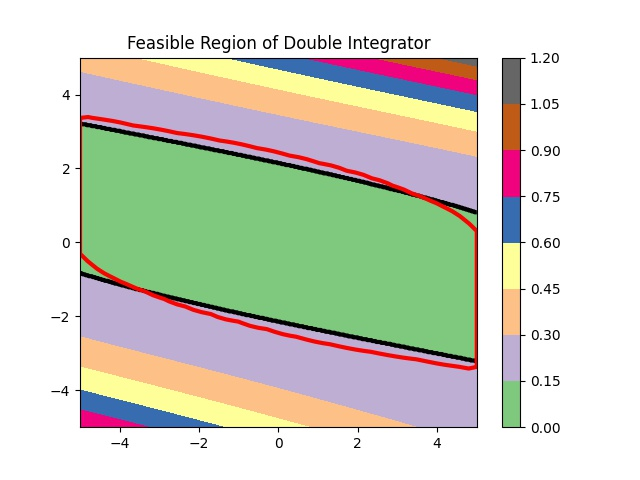
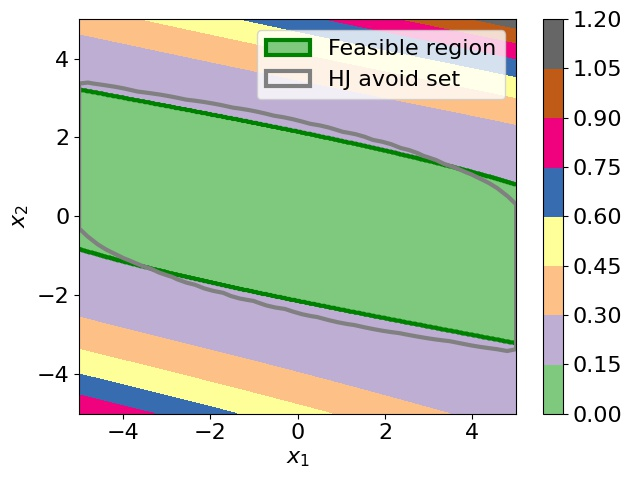
update figures

diff --git a/visualize_region_3d.py b/visualize_region_3d.py
@@ -1,3 +1,5 @@
+import matplotlib.pyplot as plt
+
 from policy import Policy4Lagrange
 import os
 from evaluator import Evaluator
@@ -6,6 +8,7 @@ from utils.em_brake_4test import EmergencyBraking
 import numpy as np
 from matplotlib.colors import ListedColormap
 from dynamics.models import EmBrakeModel, UpperTriangleModel, Air3dModel
+plt.rcParams.update({'font.size': 14})
 
 def hj_baseline():
     import jax
@@ -107,19 +110,18 @@ def static_region(test_dir, iteration,
     if baseline:
         grid, target_values = hj_baseline()
 
-    def plot_region(data_reshape, name, k):
+    def plot_region(data_reshape, name, k, fig):
         ax = plt.subplot(1, 3, k+1)
         data_reshape = data_reshape / np.max(data_reshape)
         data_reshape += 0.15 * np.where(data_reshape==0,
                                         np.zeros_like(data_reshape),
                                         np.ones_like(data_reshape))
         ctf = ax.contourf(Dc, Vc, data_reshape, cmap='Accent')  # 50
-        plt.colorbar(ctf)
-        plt.axis('equal')
+        # plt.axis('equal')
         ct1 = ax.contour(Dc, Vc, data_reshape, levels=0,
-                   colors="black",
+                   colors="green",
                    linewidths=3)
-        ct1.collections[0].set_label('Learned Boundary')
+        # ct1.collections[0].set_label('Learned')
         x = np.linspace(0, np.pi * 2, 100)
         ax.plot(5 * np.sin(x), 5 * np.cos(x), linewidth=2, linestyle='--', label='Safe dist', color='red')
         if baseline:
@@ -127,22 +129,49 @@ def static_region(test_dir, iteration,
                        grid.coordinate_vectors[1],
                        target_values[:, :, int(10 * (k + 2))].T,
                        levels=0,
-                       colors="red",
-                       linewidths=3)
-            ct2.collections[0].set_label('HJ-Reachability Boundary')
-        plt.legend(loc='best')
+                       colors="grey",
+                       linewidths=3,
+                       linestyle='--')
+            # ct2.collections[0].set_label('HJ avoid set')
+        ax.set_title(r'$x_3={:.0f}\degree$'.format(30 * (k + 2)))  # Feasibility Indicator $F(s)$,
+        # ax.set_xlabel(r'$x_1$')
+        # ax.set_ylabel(r'$x_2$')
         name_2d = name + '_' + str(iteration) + '_2d_' + str(k) + '.jpg'
-        plt.title(r'$x_3={:.0f}\degree$'.format(30 * (k+2))) #Feasibility Indicator $F(s)$,
-        plt.savefig(os.path.join(evaluator.log_dir, name_2d))
+        if k == 2:
+            rect1 = plt.Rectangle((0,0), 1, 1, fc=ctf.collections[0].get_facecolor()[0], ec='green', linewidth=3)
+            rect2 = plt.Rectangle((0, 0), 1, 1, fill=False, ec='grey', linewidth=3)
+            plt.colorbar(ctf)
+            h, l = ax.get_legend_handles_labels()
+            h = h + [rect1,rect2]
+            l = l + ['Feasible region', 'HJ avoid set']
+            fig.legend(h, l, loc='upper right')
+            # plt.tight_layout(pad=0.5)
+            plt.savefig(os.path.join(evaluator.log_dir, name_2d))
+            # legfig, legax = plt.subplots(figsize=(7,0.75))
+            # legax.set_facecolor('white')
+            # leg = legax.legend(h, l, loc='center', ncol=3, handlelength=1.5,
+            #            mode="expand", borderaxespad=0., prop={'size': 13})
+            # legax.xaxis.set_visible(False)
+            # legax.yaxis.set_visible(False)
+            # for line in leg.get_lines():
+            #     line.set_linewidth(4.0)
+            # plt.tight_layout(pad=0.5)
+            # plt.savefig(os.path.join(evaluator.log_dir, 'legend.pdf'), format='pdf')
+            # plt.subplots(figsize=(2, 8))
+            #
+            # plt.savefig(os.path.join(evaluator.log_dir, 'color_bar.pdf'), format='pdf')
 
-    plt.figure(figsize=(12, 3))
+
+
+
+    fig = plt.figure(figsize=(12, 3))
     for plot_item in plot_items:
         data = data_dict.get(plot_item)
         if sum:
             data_k = np.sum(data, axis=1)
             data_reshape = data_k.reshape(D.shape)
             for k in range(data_reshape.shape[-1]):
-                plot_region(data_reshape[..., k], plot_item + '_sum', k)
+                plot_region(data_reshape[..., k], plot_item + '_sum', k, fig)
 
 
 

diff --git a/visualize_region.py b/visualize_region.py
@@ -7,6 +7,7 @@ import numpy as np
 from matplotlib.colors import ListedColormap
 from dynamics.models import EmBrakeModel, UpperTriangleModel, Air3dModel
 
+
 def hj_baseline():
     import jax
     import jax.numpy as jnp
@@ -96,6 +97,7 @@ def static_region(test_dir, iteration,
     flatten_cs = flatten_cs / np.max(flatten_cs)
 
     import matplotlib.pyplot as plt
+    plt.rcParams.update({'font.size': 16})
     from mpl_toolkits.mplot3d import Axes3D
 
     plot_items = ['cs']
@@ -112,18 +114,24 @@ def static_region(test_dir, iteration,
         plt.colorbar(ct1)
         ct1.collections[0].set_label('Learned Boundary')
         ax.contour(D, V, data_reshape, levels=0,
-                   colors="black",
+                   colors="green",
                    linewidths=3)
         if baseline:
             ct2 = ax.contour(grid.coordinate_vectors[0],
                        grid.coordinate_vectors[1],
                        target_values.T,
                        levels=0,
-                       colors="red",
+                       colors="grey",
                        linewidths=3)
-            ct2.collections[0].set_label('HJ-Reachability Boundary')
+            # ct2.collections[0].set_label('HJ-Reachability Boundary')
         name_2d = name + '_' + str(iteration) + '_2d.jpg'
-        plt.title('Feasible Region of Double Integrator')
+        ax.set_xlabel(r'$x_1$')
+        ax.set_ylabel(r'$x_2$')
+        rect1 = plt.Rectangle((0, 0), 1, 1, fc=ct1.collections[0].get_facecolor()[0], ec='green', linewidth=3)
+        rect2 = plt.Rectangle((0, 0), 1, 1, fill=False, ec='grey', linewidth=3)
+        plt.legend((rect1,rect2), ('Feasible region', 'HJ avoid set'), loc='best')
+        # plt.title('Feasible Region of Double Integrator')
+        plt.tight_layout(pad=0.5)
         plt.savefig(os.path.join(evaluator.log_dir, name_2d))
         # figure = plt.figure()
         # ax = Axes3D(figure)
